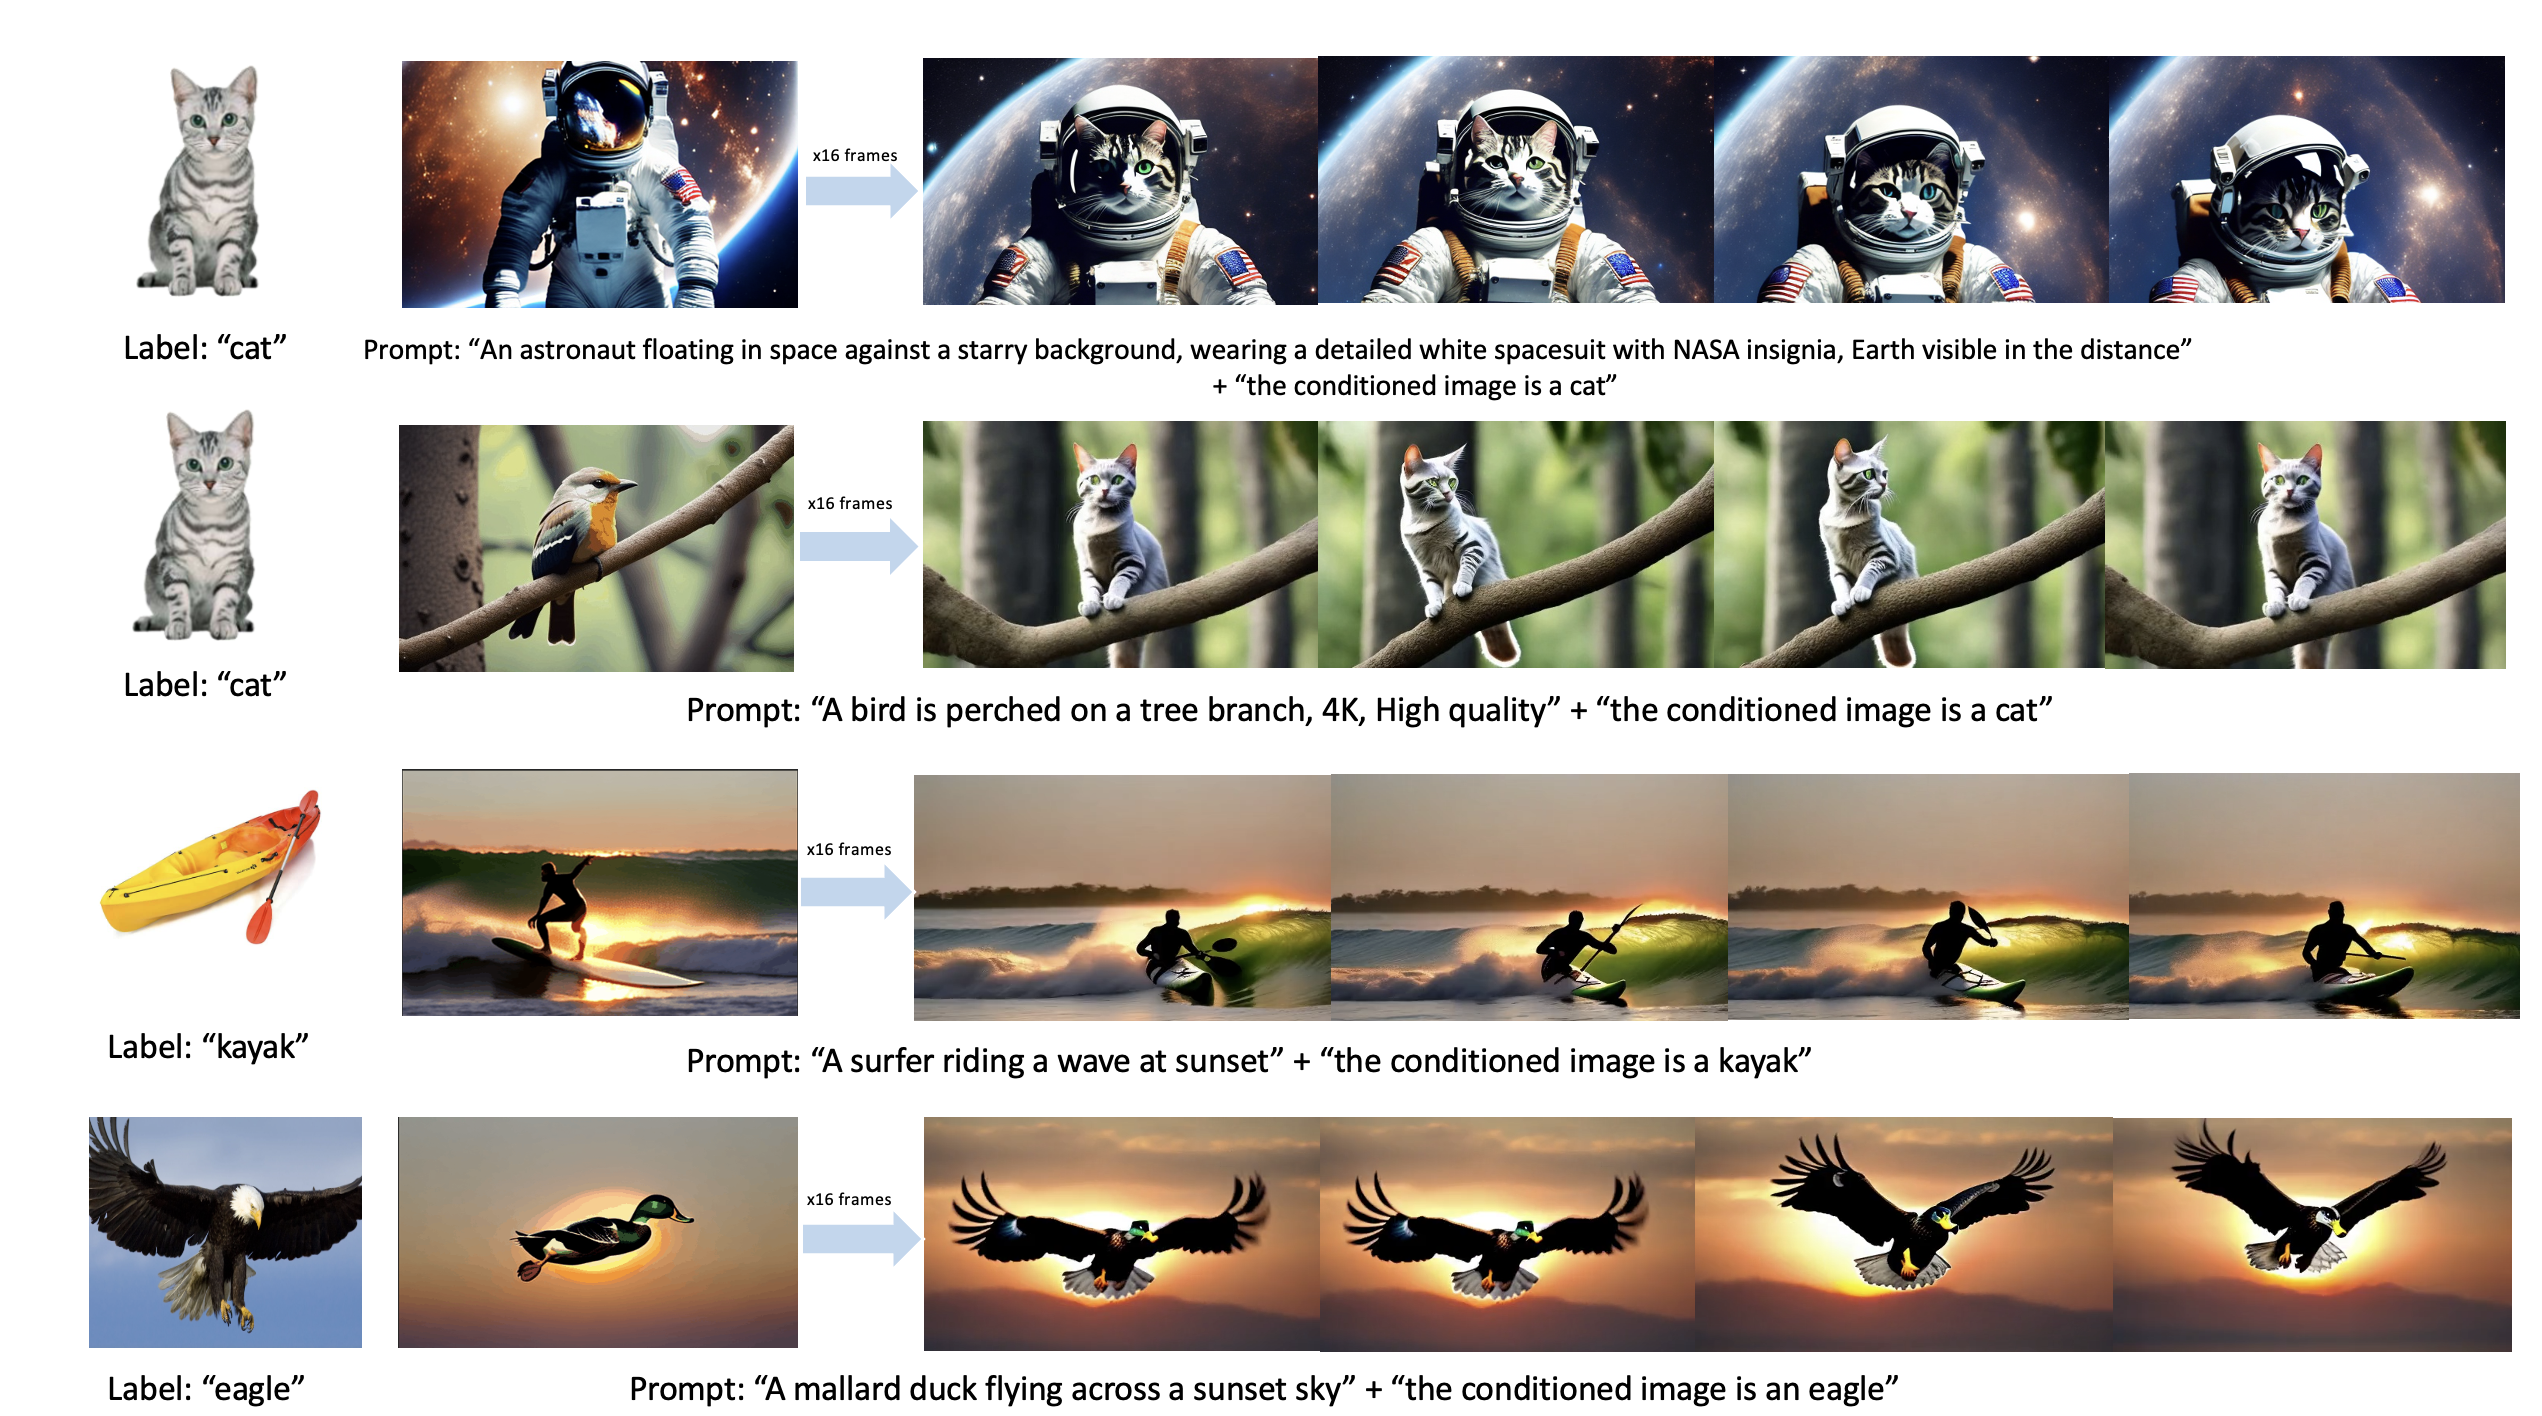
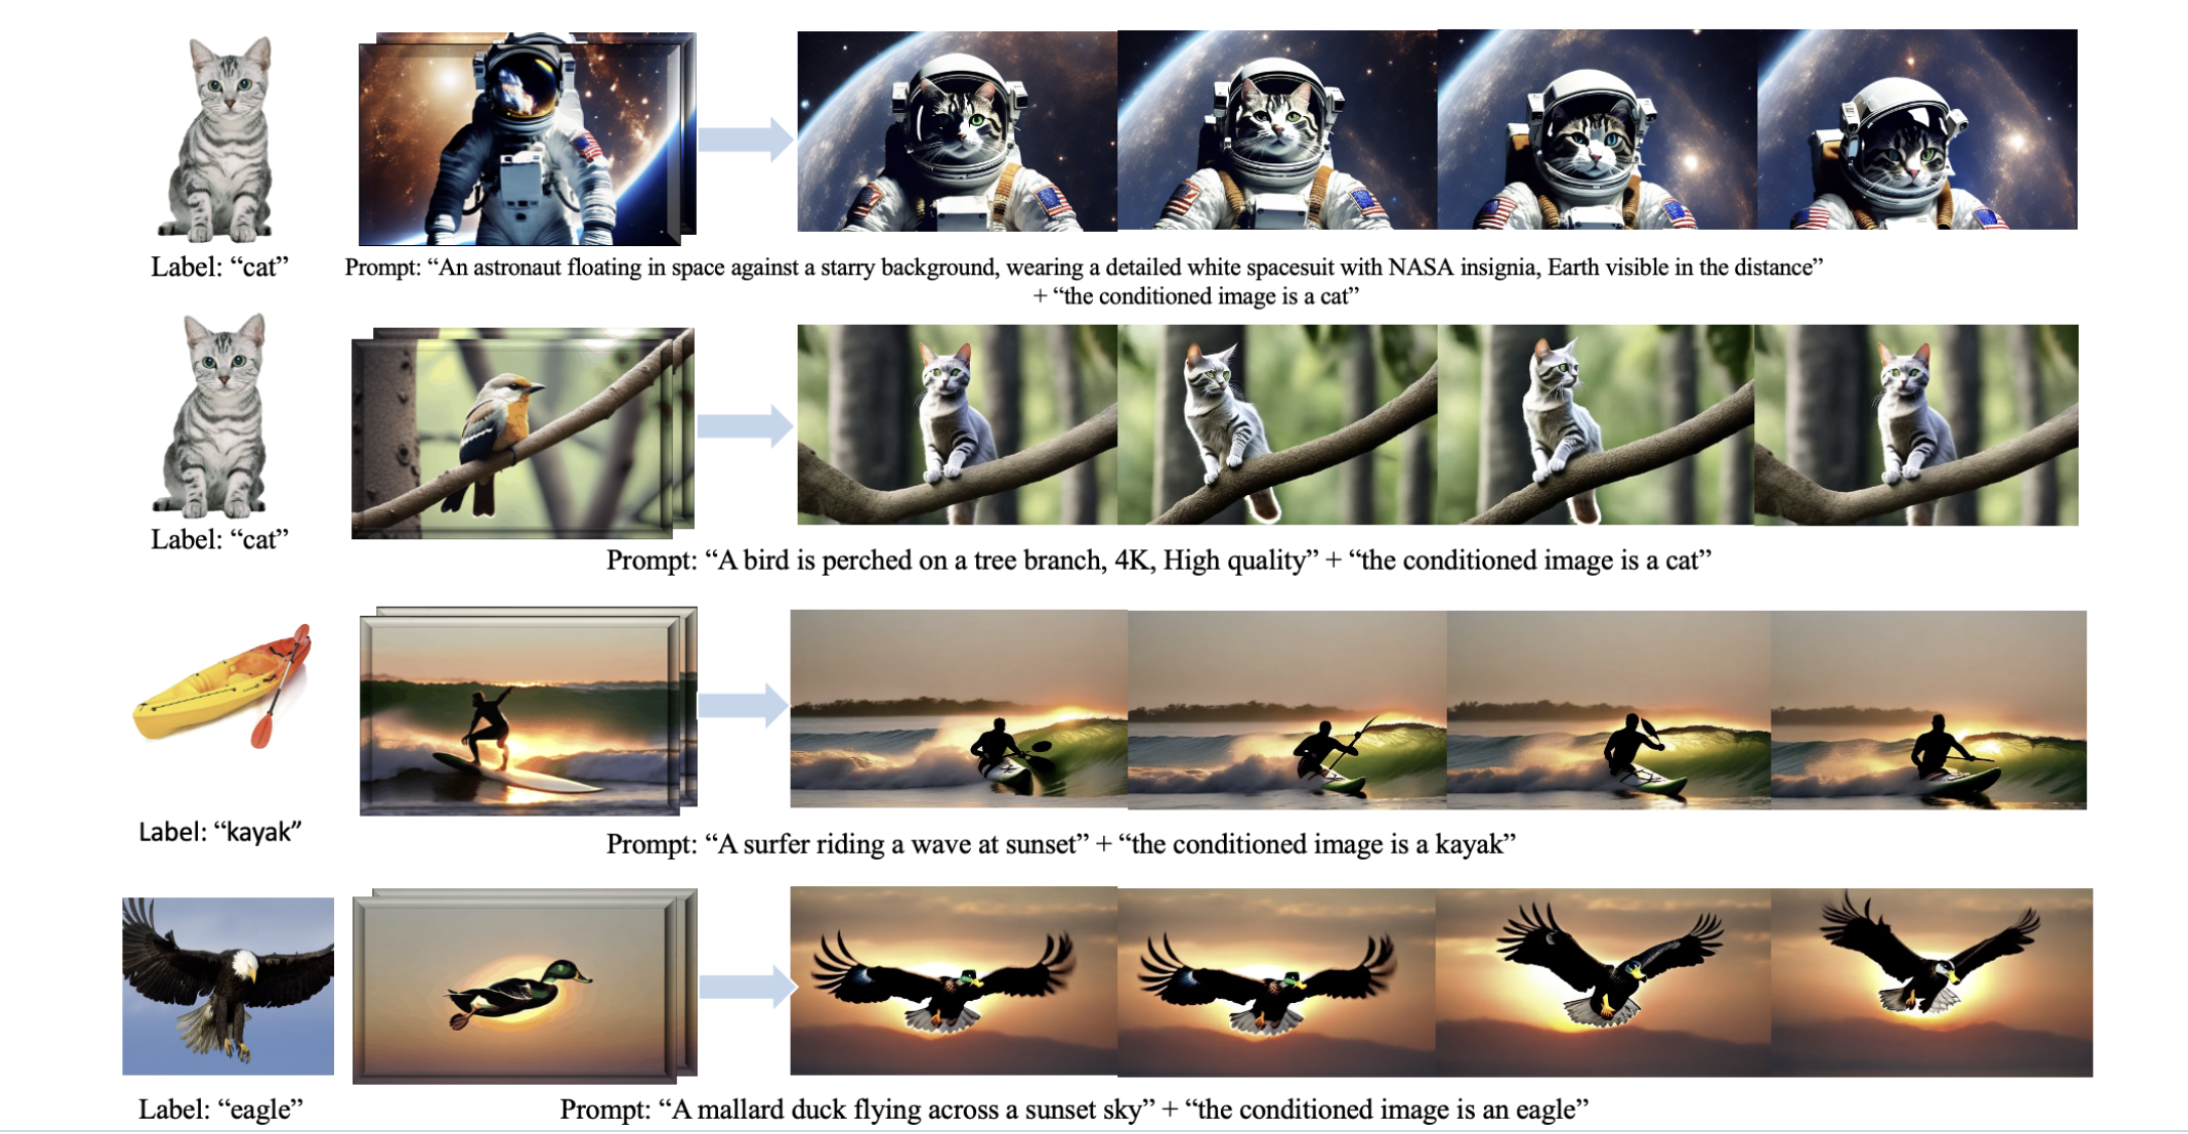
update teaser

diff --git a/README.md b/README.md
@@ -12,7 +12,7 @@
 
 ## 📽 Teaser  
 <!-- insert teaser GIF or static images here -->
-[Teaser Preview](assets/illustration/teaser.pdf)
+[![Teaser Preview](assets/illustration/teaser.png)](assets/illustration/teaser.pdf)
 ---
 
 ## 🎥 Video Results
